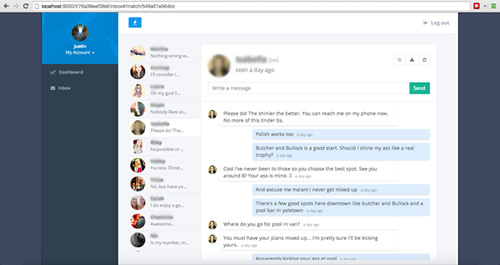
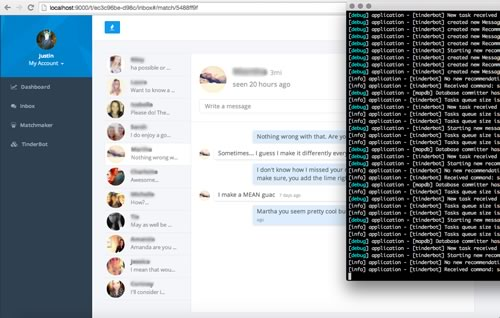
Fix minor bug and screenshot.

diff --git a/public/js/app/bot.js b/public/js/app/bot.js
@@ -19,7 +19,7 @@ window.App = function() {
     o.associateImg = ko.observable(data.associateImg);
     o.lastSeen = ko.observable(moment(data.created).fromNow());
     setInterval(function() {
-      o.lastSeen(moment(o.ping_time()).fromNow());
+      o.lastSeen(moment(o.created()).fromNow());
     }, 60000);
   }
   _.stateModel = function(data) {
@@ -63,6 +63,7 @@ window.App = function() {
         if(data!=null && data.length!=0) {
           var d = $.map(data, function(item){ return new _.logModel(item) });
           _.logs(d);
+          _.logs.reverse();
         }
       },
       error: function() {
